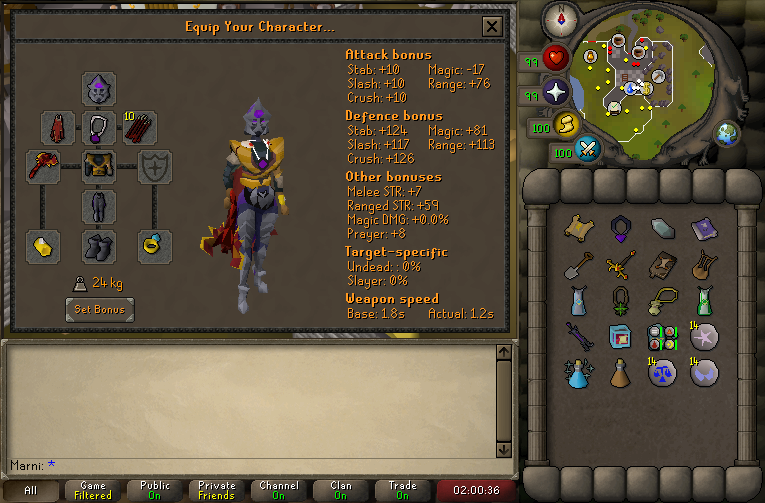
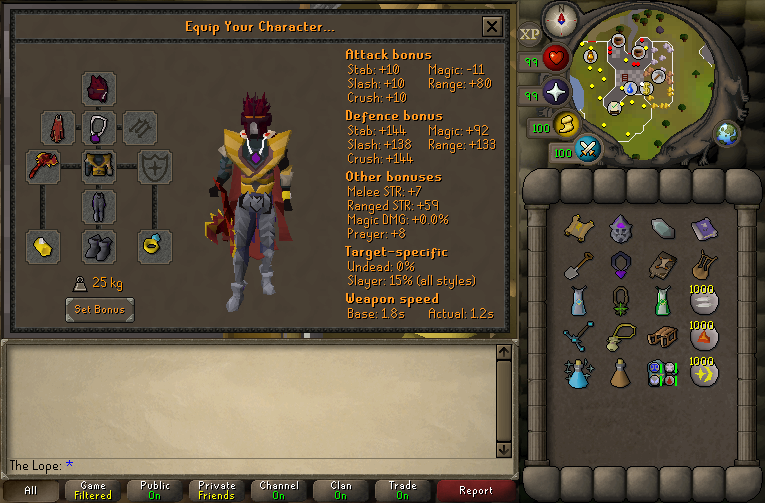
Marni elite updates 2 (#16)
* Kacy elite steps

* Elite gear update

* Update elite readme

diff --git a/Elite/Gear/README.md b/Elite/Gear/README.md
@@ -9,7 +9,8 @@ Credit to Chung Us
 https://github.com/TheLope/clue-tags/blob/2f99b8de6440d0f597ccf497ea7c463b659b3143/Elite/Gear/Elite%20Gear%20Tags.txt#L1
 
 ## [Elite Gear Tags 2](Elite%20Gear%20Tags%202.txt)
+Credit to Marni
 
 ![Elite Gear](../../Docs/Elite%20Gear%202.png)
 
-https://github.com/TheLope/clue-tags/blob/2f99b8de6440d0f597ccf497ea7c463b659b3143/Elite/Gear/Elite%20Gear%20Tags%202.txt#L1
+https://github.com/TheLope/clue-tags/blob/86cd73d2170c58e05d0049ff44e12ebaf6acfcb8/Elite/Gear/Elite%20Gear%20Tags%202.txt#L1
